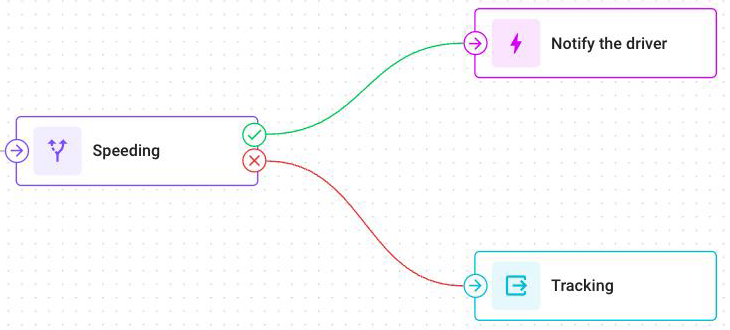
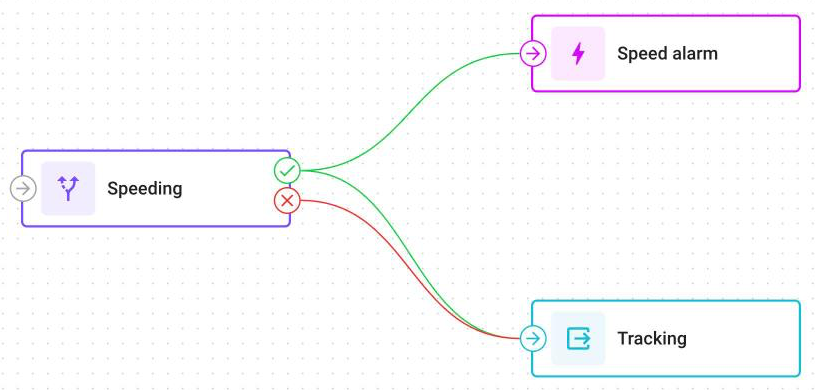
Mirror update 2026-10-22T12:47:28Z

Changed region(s): [[0.0, 0.0, 0.9945, 1.0], [0.7534, 0.0909, 0.9342, 0.1515], [0.7534, 0.8485, 0.8438, 0.9091]]

diff --git a/docs/location-intelligence/iot-logic/nodes/device-action.md b/docs/location-intelligence/iot-logic/nodes/device-action.md
@@ -36,7 +36,7 @@ The node sends its commands on every message that reaches it, not only when a va
 
 ## Where it sits in a flow
 
-<figure><img src="../../.gitbook/assets/iot-logic-device-action-in-flow.png" alt="A flow with an IF/THEN Logic node whose then branch leads to a Device Action node, while the else branch continues to an Output Endpoint node."><figcaption>A Device Action node on the then branch</figcaption></figure>
+<figure><img src="../../.gitbook/assets/iot-logic-device-action-in-flow.png" alt="A flow with an IF/THEN Logic node named Speeding. Its then branch leads to a Device Action node named Speed alarm and to an Output Endpoint node named Tracking. Its else branch leads to the same Output Endpoint node."><figcaption>The then branch reaches the Device Action node and an Output Endpoint node</figcaption></figure>
 
 The **Device Action** node ends a path: nothing can follow it. Put an **IF/THEN Logic** node before it, so that the commands go out only for the messages that meet a condition. If no **IF/THEN Logic** node comes before it on the path, the node sends its commands on every message.
 
@@ -53,7 +53,7 @@ The settings dialog has two tabs:
 {% endcolumn %}
 
 {% column width="42%" %}
-<figure><img src="../../.gitbook/assets/iot-logic-device-action-form.png" alt="The Device Action node settings dialog showing the Standard tab, with an action type selector and its parameters."><figcaption>The actions of the node</figcaption></figure>
+<figure><img src="../../.gitbook/assets/iot-logic-device-action-form.png" alt="The Device Action node settings dialog on the Standard tab: the node name, the Node ID, Action 1 switching output 2 on, and Action 2 sending a GPRS command."><figcaption>The actions of the node</figcaption></figure>
 {% endcolumn %}
 {% endcolumns %}
 
@@ -78,7 +78,7 @@ Turns a digital output of the device on or off, such as a relay, an immobilizer,
 | **Output number** | The output to switch, 1 to 8. A number that another **Switch output** action of this node uses isn't offered |
 | **Signal off** / **Signal on** | The state to set. A new action starts at **Signal off** |
 
-<figure><img src="../../.gitbook/assets/iot-logic-device-action-switch-output.png" alt="The Switch output action configured in the Device Action node, showing the output number selector and the signal on and off toggle."><figcaption>Switch an output on or off</figcaption></figure>
+<figure><img src="../../.gitbook/assets/iot-logic-device-action-switch-output.png" alt="Action 1 of a Device Action node: the Switch output type, output number 2, and the switch set to Signal on."><figcaption>Switch an output on or off</figcaption></figure>
 
 #### Send GPRS command
 
@@ -88,7 +88,7 @@ Sends a text command to the device over GPRS, exactly as you write it.
 | --- | --- |
 | **Command string** | The command text. Required, up to 512 characters |
 
-<figure><img src="../../.gitbook/assets/iot-logic-device-action-gprs.png" alt="The Send GPRS command action configured in the Device Action node, showing the command string field."><figcaption>Send a command string</figcaption></figure>
+<figure><img src="../../.gitbook/assets/iot-logic-device-action-gprs.png" alt="Action 2 of a Device Action node: the Send GPRS command type, with the command string getgps."><figcaption>Send a command string</figcaption></figure>
 
 The command text depends on the device model. Check the manufacturer's documentation for the exact string, and test it on one device before you use it for a fleet. Use only characters from a standard English keyboard: other characters don't arrive as typed. A command can't include values from the message: the text is sent as written.
 
